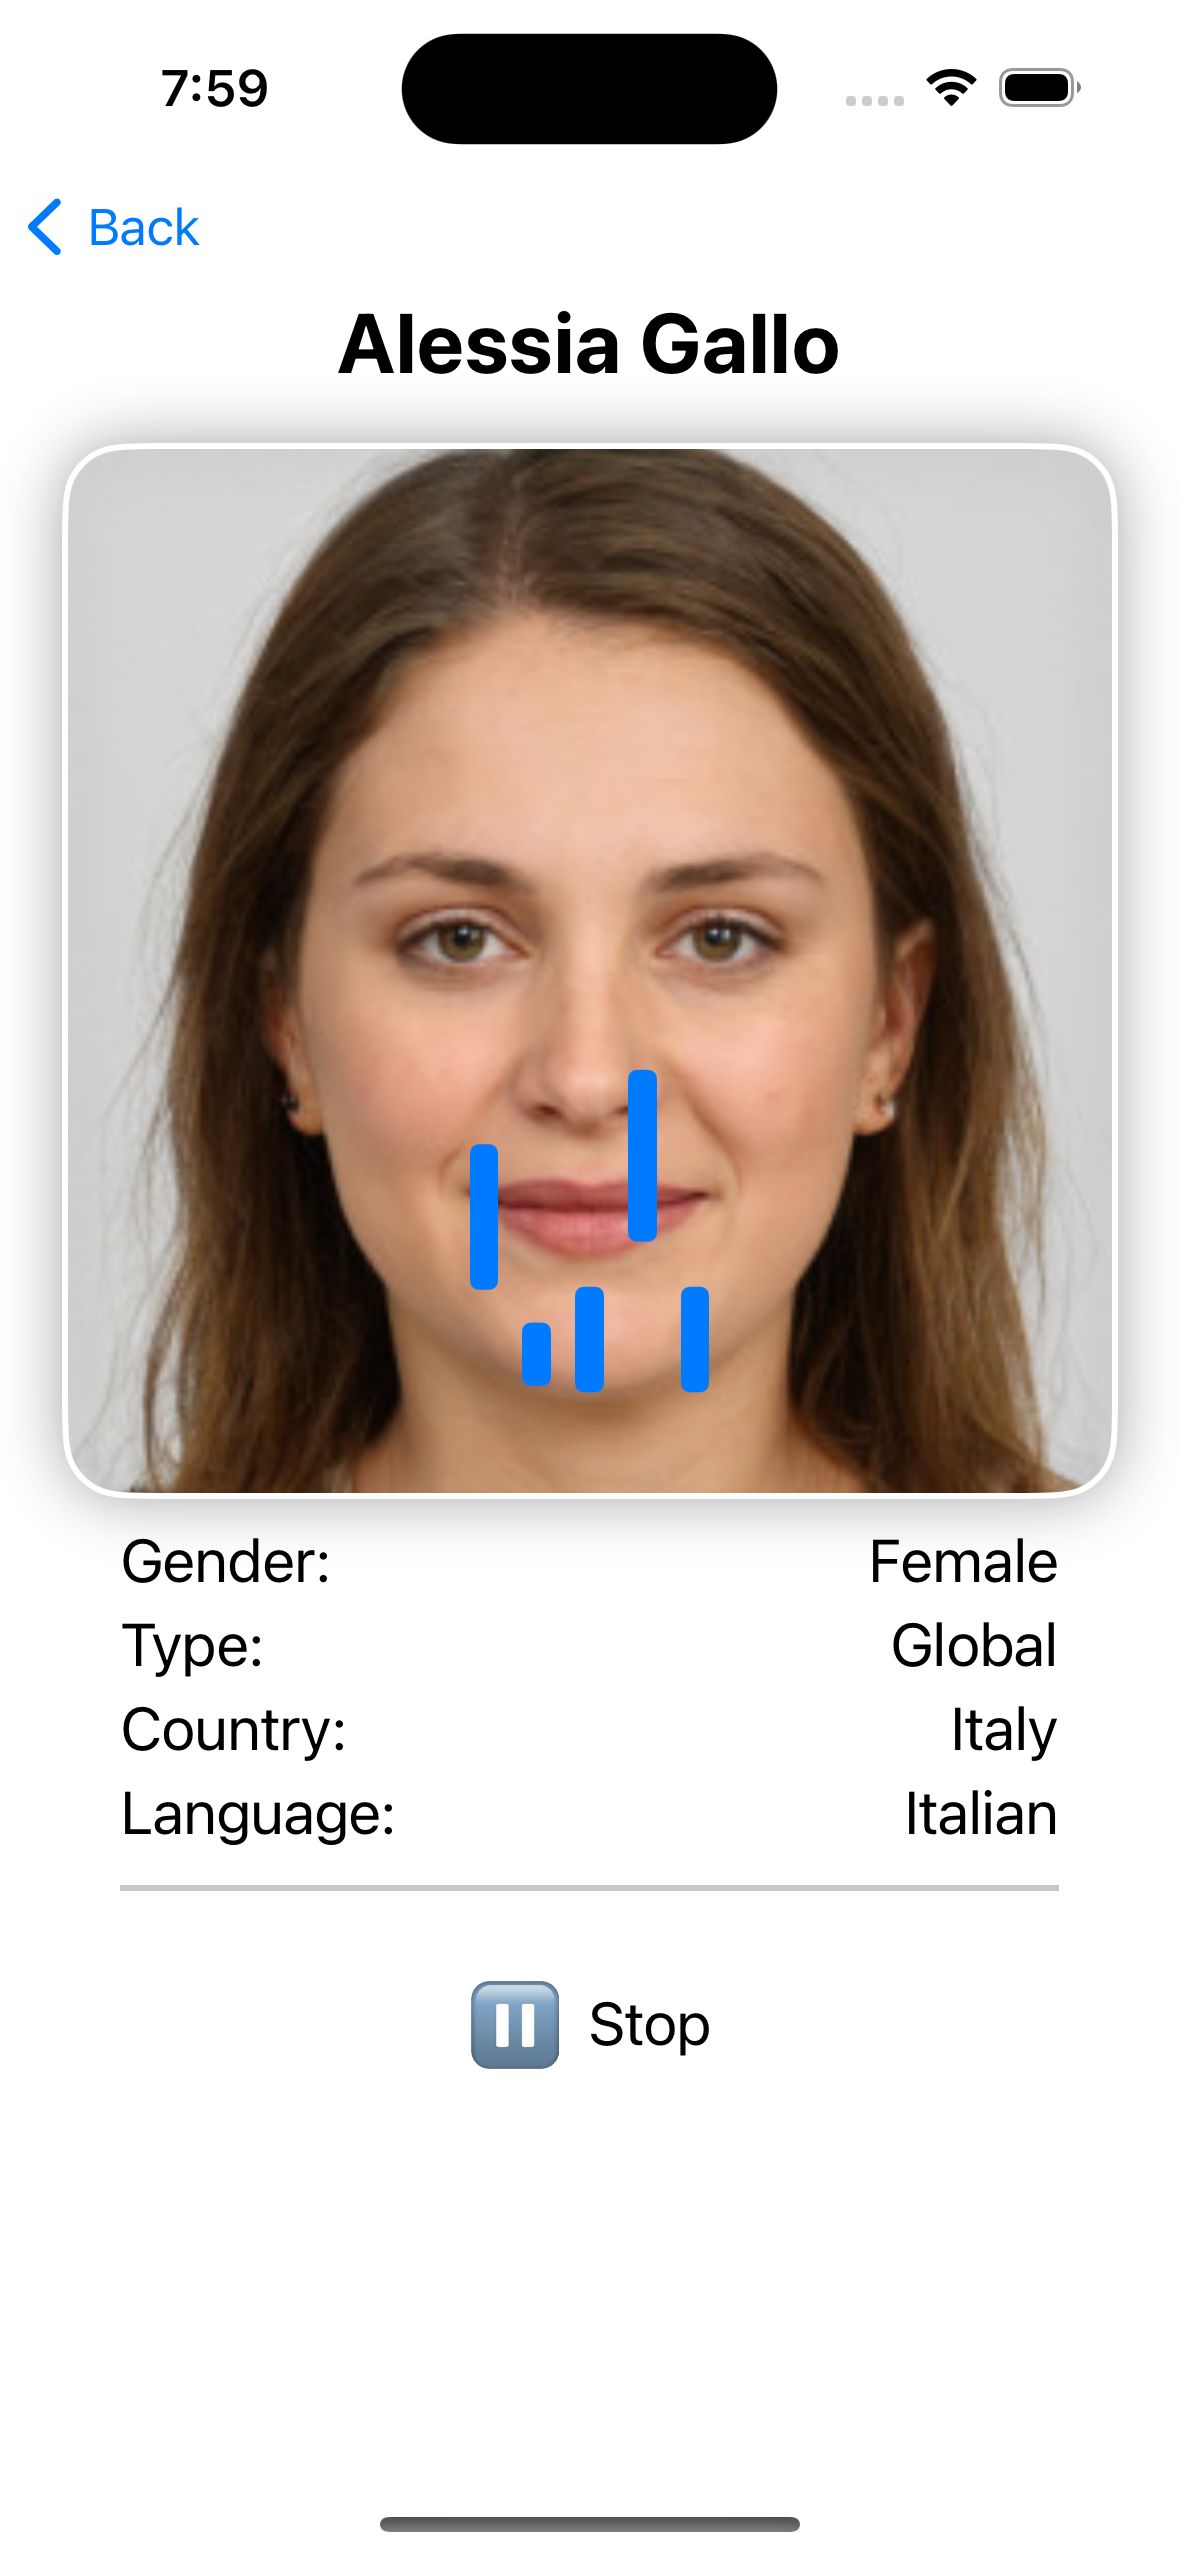
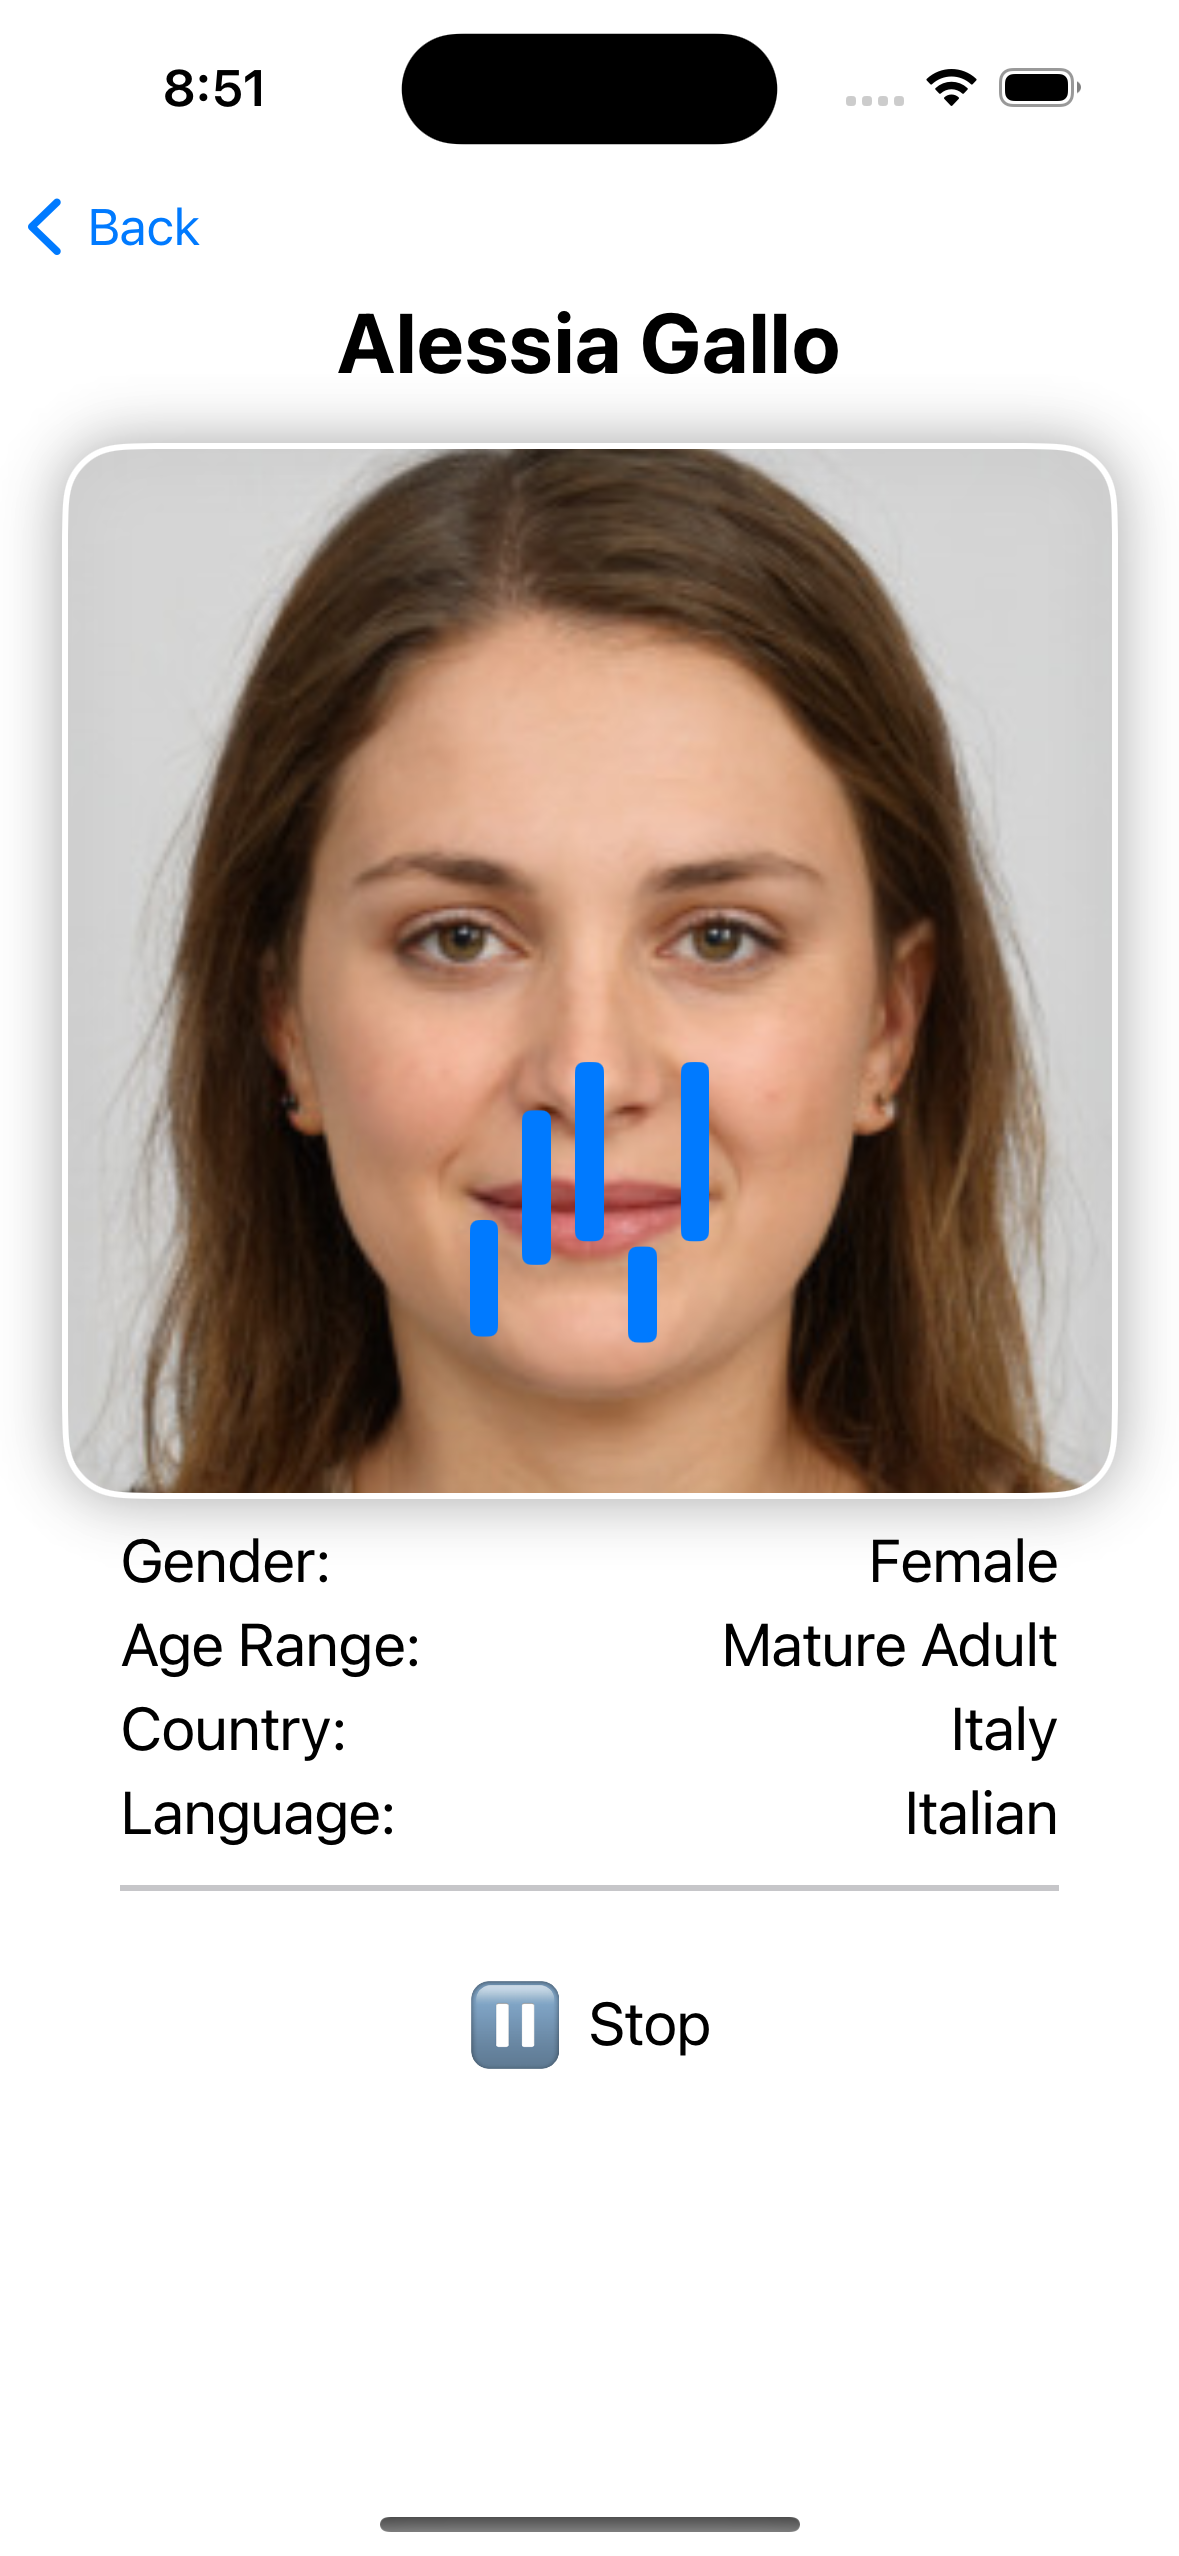
Display Age Range
Provide UX Presentable Age Range values.
Update Screenshots.
Improve SpeakerDataSource

diff --git a/LovoAIVoices/Models/Speaker.swift b/LovoAIVoices/Models/Speaker.swift
@@ -32,8 +32,19 @@ struct SpeakerData: Decodable, Identifiable {
 
     enum AgeRange: String, Codable {
         case child = "child"
-        case mature = "mature_adult"
         case youngAdult = "young_adult"
+        case matureAdult = "mature_adult"
+
+        var displayValue: String {
+            switch self {
+            case .child:
+                return "Child"
+            case .matureAdult:
+                return "Mature Adult"
+            case .youngAdult:
+                return "Young Adult"
+            }
+        }
     }
 
     enum Gender: String, Codable {
@@ -75,5 +86,5 @@ extension Speaker {
         return URL(string: self.imageURL)
     }
 
-    static let mock: Speaker = .init(id: "63b4094b241a82001d51c5fc", displayName: "Aadesh Madar", locale: "kn-IN", gender: SpeakerData.Gender.male, imageURL: "https://cdn.lovo.ai/f5349e2d/Aadesh+Madar.jpeg", speakerType: SpeakerData.SpeakerType.global, speakerStyles: [SpeakerData.SpeakerStyle(deprecated: false, id: "63b4094b241a82001d51c5fd", displayName: "Aadesh Mader", sampleTTSURL: Optional("https://cdn.lovo.ai/speaker-tts-samples/prod/kn-IN-GaganNeural-default.wav"))], ageRange: nil)
+    static let mock: Speaker = .init(id: "63b4094b241a82001d51c5fc", displayName: "Aadesh Madar", locale: "kn-IN", gender: SpeakerData.Gender.male, imageURL: "https://cdn.lovo.ai/f5349e2d/Aadesh+Madar.jpeg", speakerType: SpeakerData.SpeakerType.global, speakerStyles: [SpeakerData.SpeakerStyle(deprecated: false, id: "63b4094b241a82001d51c5fd", displayName: "Aadesh Mader", sampleTTSURL: Optional("https://cdn.lovo.ai/speaker-tts-samples/prod/kn-IN-GaganNeural-default.wav"))], ageRange: .youngAdult)
 }

diff --git a/LovoAIVoices/Helpers/SpeakersDataSource.swift b/LovoAIVoices/Helpers/SpeakersDataSource.swift
@@ -28,8 +28,7 @@ class SpeakersDataSource: SpeakersDataSourcing {
         components?.queryItems = queryItems
 
         guard let url = components?.url else {
-            print("Error: Invalid URL components.")
-            return []
+            throw URLError(.badURL, userInfo: [NSURLErrorFailingURLErrorKey: baseURL])
         }
 
         // Create URLRequest
@@ -46,8 +45,8 @@ class SpeakersDataSource: SpeakersDataSourcing {
             print("********* Page: \(speakers.page) *********")
             return speakers.data
         } catch {
-            print(String(describing: error))
-            return Speakers()
+            print("Error fetching data: \(error.localizedDescription)")
+            throw error
         }
     }
 }

diff --git a/LovoAIVoices/ViewModels/SpeakerViewModel.swift b/LovoAIVoices/ViewModels/SpeakerViewModel.swift
@@ -12,6 +12,7 @@ class SpeakerViewModel: ObservableObject {
     var name: String { speaker.displayName }
     var locale: String { speaker.locale }
     var gender: String { speaker.gender.rawValue }
+    var ageRange: String { speaker.ageRange?.displayValue ?? "N/A" }
     var speakerId: String { speaker.id }
     var speakerType: String { speaker.speakerType.rawValue }
     var sampleTTSURL: String? { speaker.speakerStyles[0].sampleTTSURL }

diff --git a/LovoAIVoices/Views/SpeakerInfoView.swift b/LovoAIVoices/Views/SpeakerInfoView.swift
@@ -45,10 +45,10 @@ struct SpeakerInfoView: View {
                 }
 
                 HStack {
-                    Text("Type:")
+                    Text("Age Range:")
                         .font(.title3)
                     Spacer()
-                    Text(viewModel.speakerType.capitalized)
+                    Text(viewModel.ageRange)
                         .font(.title3)
                 }
                 
